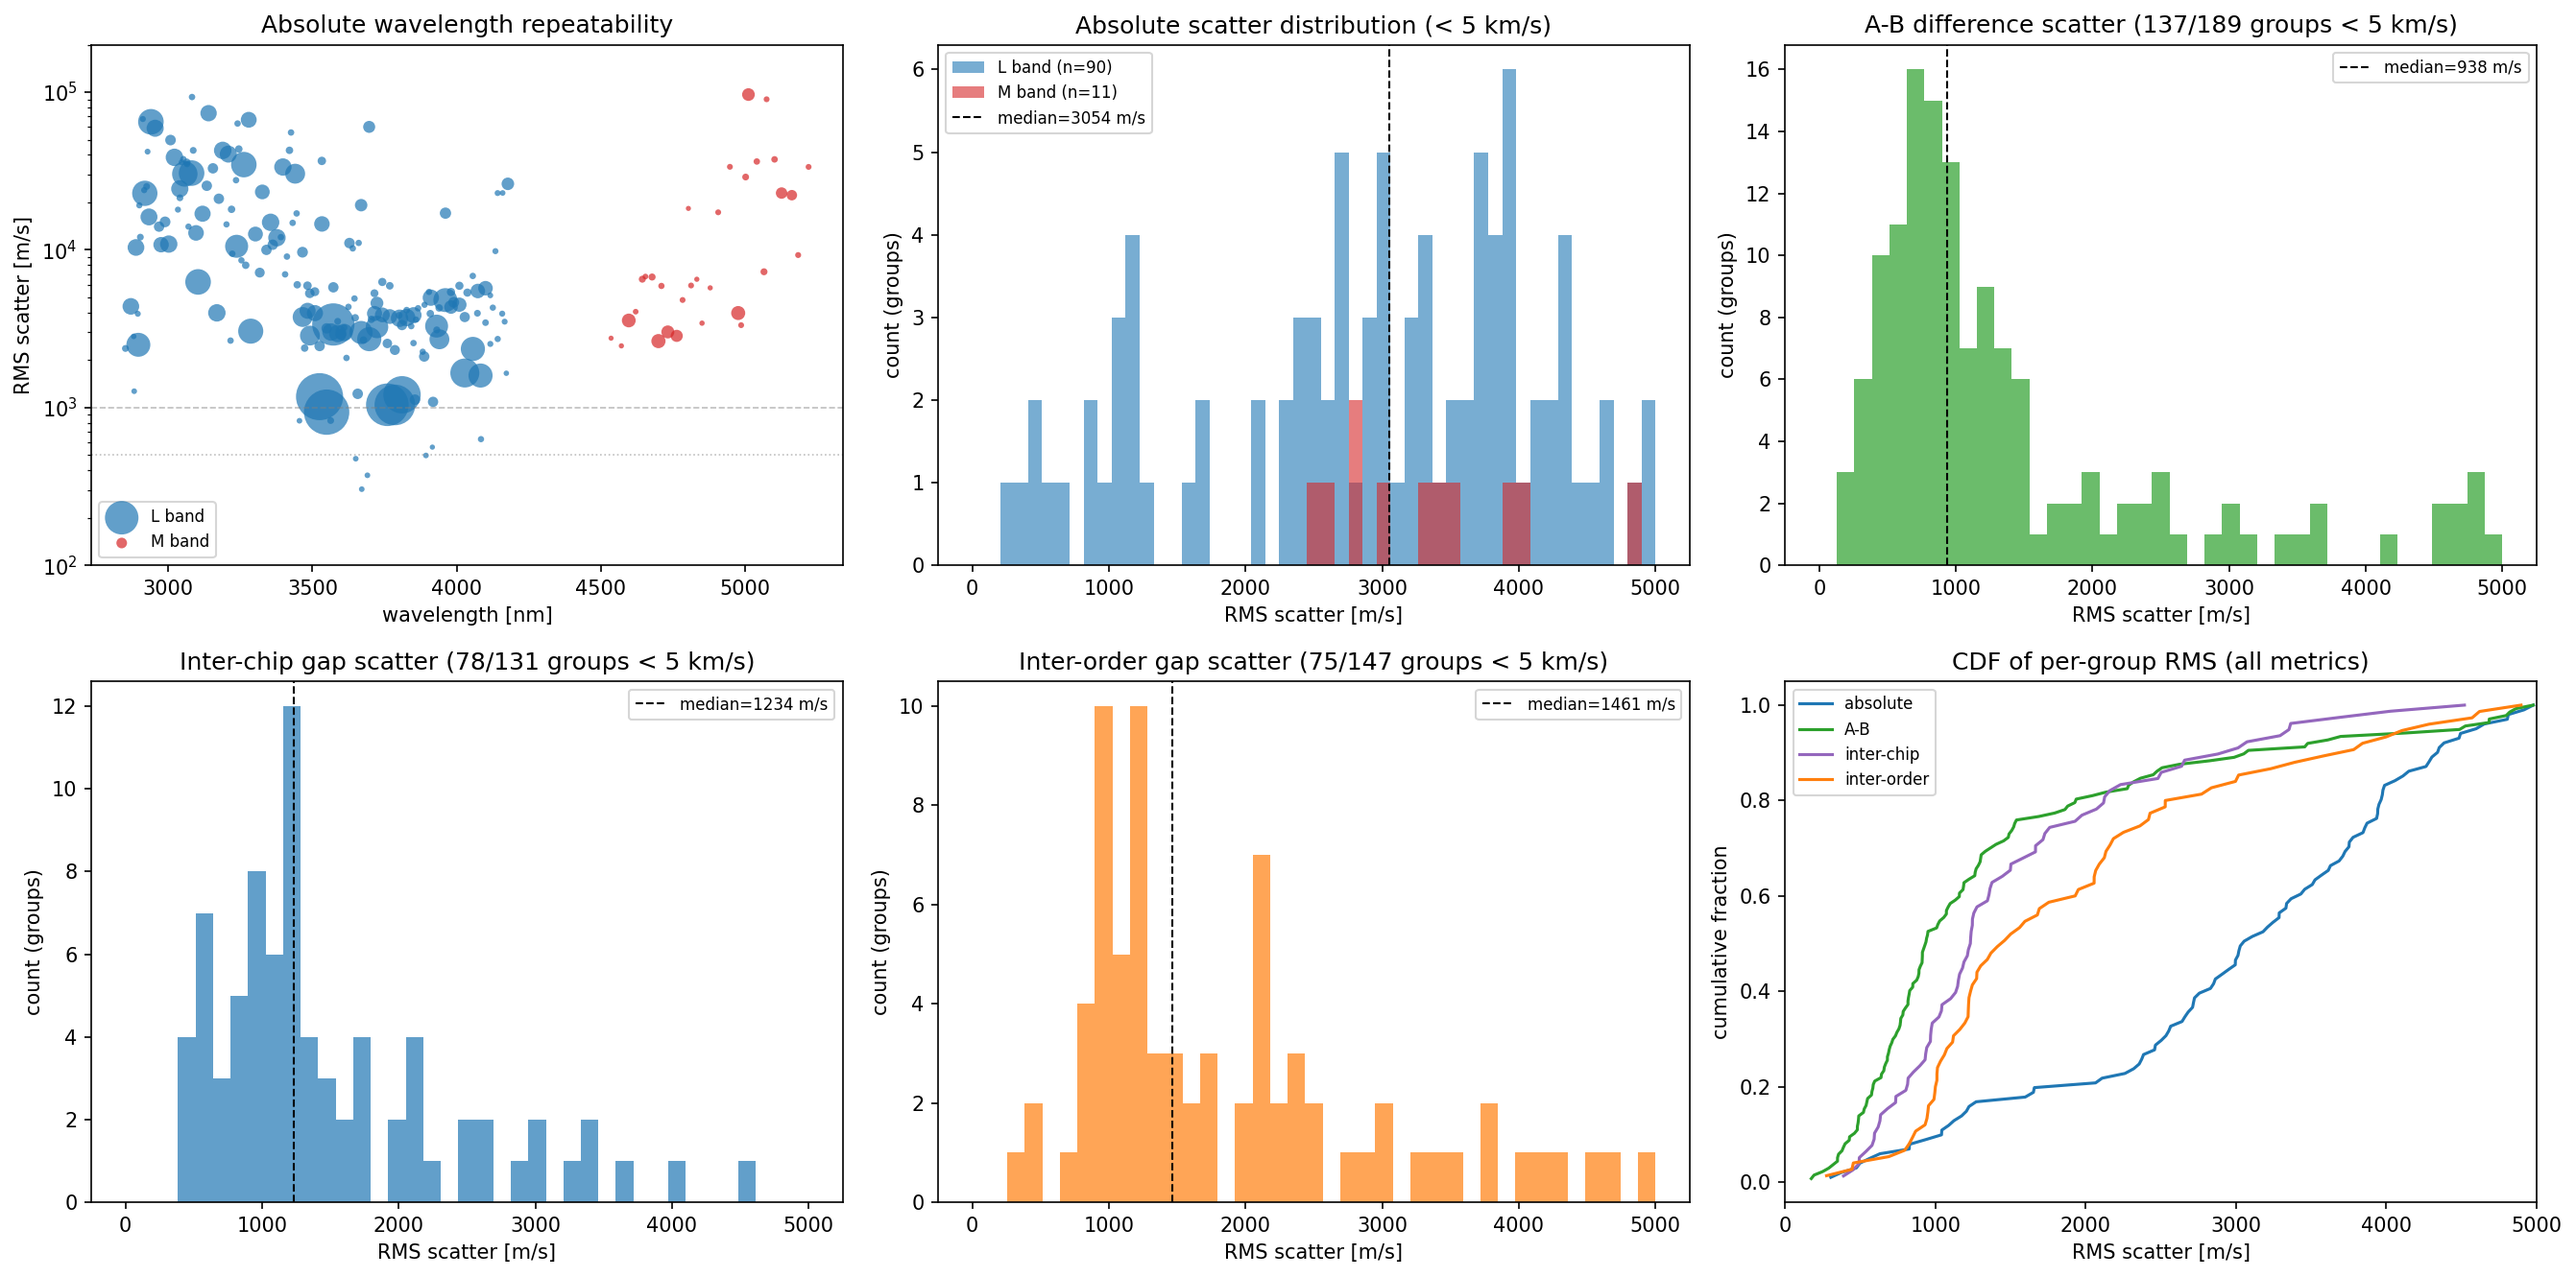
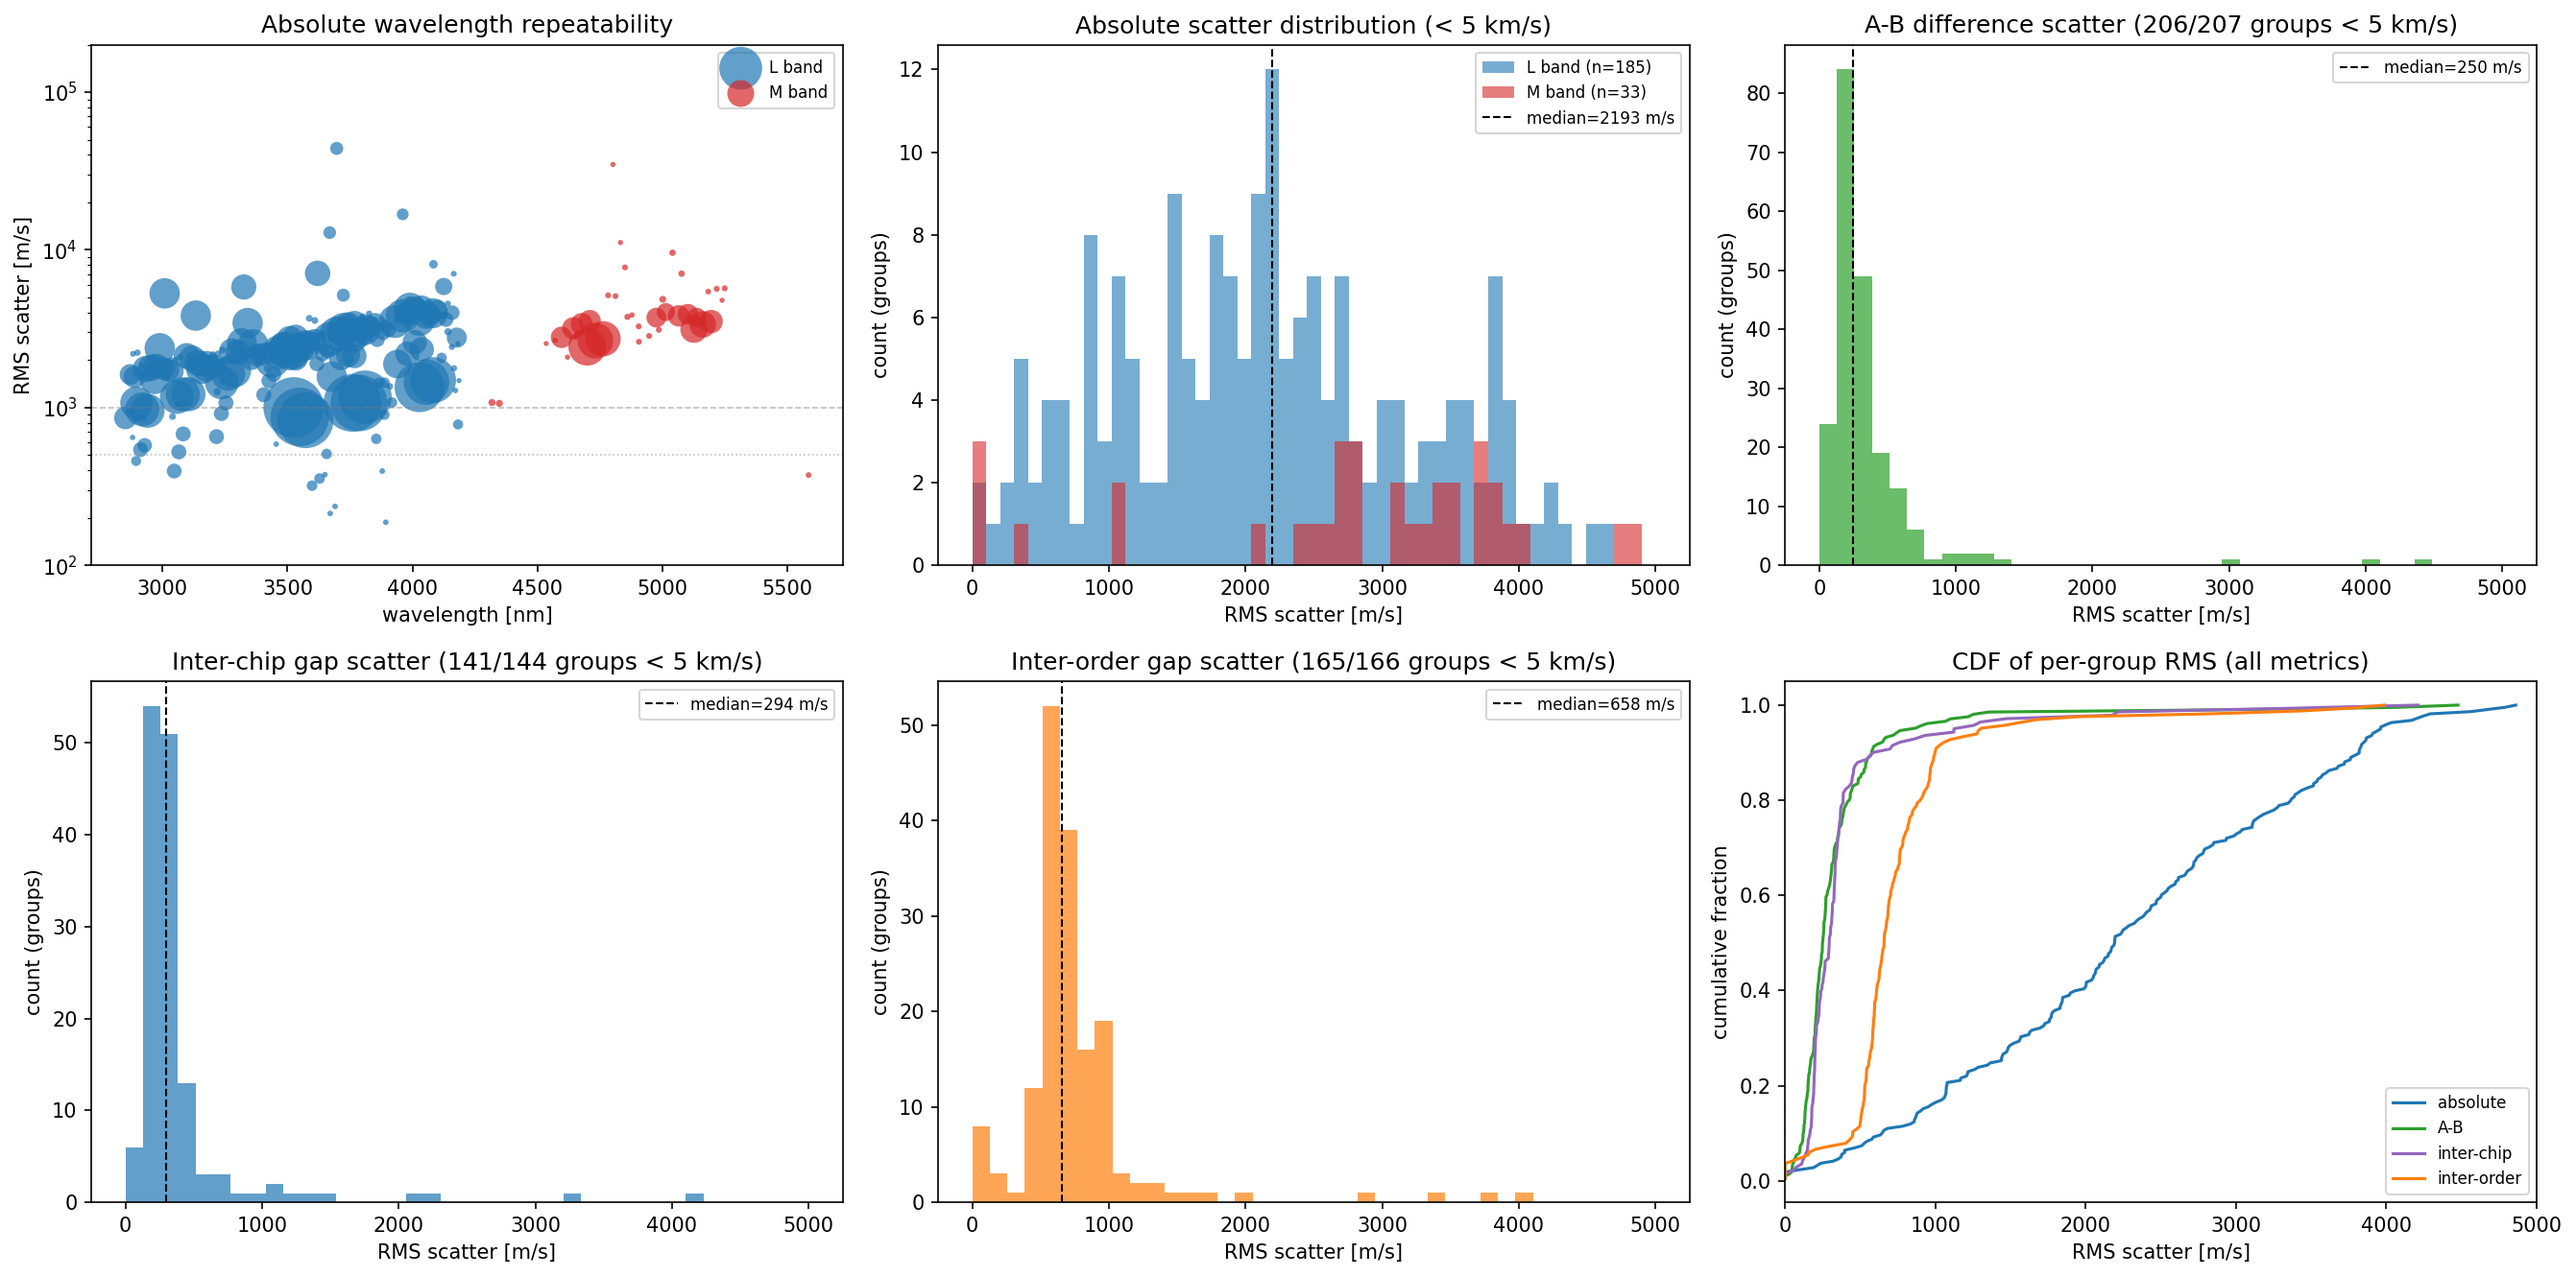
add slit tilt validation script and paper figure

diff --git a/tilt_comparison.py b/tilt_comparison.py
@@ -1,0 +1,307 @@
+#!/usr/bin/env python
+# /// script
+# requires-python = ">=3.10"
+# dependencies = ["numpy", "matplotlib", "astropy"]
+# ///
+"""Compare measured A-B wavelength shifts from science data to slit tilt
+predictions from _tw.fits SlitPolyB.
+
+Reads tellfit_{A,B}.par.dat and tellfit_{A,B}_xcen.json sidecar files from
+all reduction directories, computes median A-B wavelength difference per
+(setting, chip, order) group, and compares to the shift predicted by the
+tilt polynomial in the tracing tables.
+
+Uses the actual nod throw from each observation's FITS header (ESO SEQ
+NODTHROW) rather than a fixed value per setting.
+"""
+
+import json
+import re
+import sys
+from collections import defaultdict
+from pathlib import Path
+
+import numpy as np
+import matplotlib
+matplotlib.use('Agg')
+import matplotlib.pyplot as plt
+from astropy.io import fits
+
+
+MAX_ORDER = {
+    'L3244': 7, 'L3262': 7, 'L3302': 7, 'L3340': 7,
+    'L3377': 8, 'L3412': 8, 'L3426': 8,
+    'M4187': 7, 'M4211': 8, 'M4266': 8, 'M4318': 8,
+    'M4368': 8, 'M4416': 8, 'M4461': 8, 'M4504': 8, 'M4519': 9,
+}
+
+PIXEL_SCALE = 0.059  # arcsec/pixel
+
+REFPIX = 1024
+C_MS = 299792458.0
+
+
+def parse_pardat(path):
+    with open(path) as f:
+        header = f.readline().split()
+        rows = []
+        for line in f:
+            vals = line.split()
+            row = {}
+            for k, v in zip(header, vals):
+                try:
+                    row[k] = float(v)
+                except ValueError:
+                    row[k] = np.nan
+            rows.append(row)
+    return rows
+
+
+def vipere_order_to_chip_order(vorder, max_order):
+    order_idx, det0 = divmod(vorder - 1, 3)
+    chip = det0 + 1
+    order_drs = max_order - order_idx
+    return chip, order_drs
+
+
+def eval_wl_at_pixel(wave0, wave1, wave2, xcen, pixel):
+    dx = pixel - xcen
+    return (wave0 + wave1 * dx + wave2 * dx * dx) / 10.0  # nm
+
+
+def extract_setting(dirname):
+    m = re.search(r'_([LM]\d{4})_', dirname)
+    return m.group(1) if m else None
+
+
+def get_nod_throw_pixels(dir_path):
+    """Read nod throw from extractedA FITS header, convert to pixels."""
+    ext_a = dir_path / 'cr2res_obs_nodding_extractedA.fits'
+    if not ext_a.exists():
+        return None
+    try:
+        h = fits.getheader(ext_a, 0)
+        throw_arcsec = h.get('ESO SEQ NODTHROW')
+        if throw_arcsec is None:
+            return None
+        return throw_arcsec / PIXEL_SCALE
+    except Exception:
+        return None
+
+
+def collect_ab_diffs(reduced_dir, prms_max=10):
+    """Collect per-observation A-B diffs with actual nod throw.
+
+    Returns dict: (setting, chip, order) -> list of (diff_ms, throw_pix)
+    """
+    reduced = Path(reduced_dir)
+    ab_diffs = defaultdict(list)
+    n_files = 0
+    n_no_throw = 0
+
+    for parfile in sorted(reduced.glob('*/tellfit_A.par.dat')):
+        dirname = parfile.parent.name
+        setting = extract_setting(dirname)
+        if not setting or setting not in MAX_ORDER:
+            continue
+
+        max_order = MAX_ORDER[setting]
+        n_files += 1
+
+        throw_pix = get_nod_throw_pixels(parfile.parent)
+        if throw_pix is None:
+            n_no_throw += 1
+            continue
+
+        obs_wl = {}
+        for ab in ['A', 'B']:
+            pf = parfile.parent / f'tellfit_{ab}.par.dat'
+            xf = parfile.parent / f'tellfit_{ab}_xcen.json'
+            if not pf.exists() or not xf.exists():
+                continue
+            with open(xf) as f:
+                xmap = json.load(f)
+            pars = parse_pardat(pf)
+
+            for par in pars:
+                vorder = int(par.get('order', 0))
+                if vorder == 0:
+                    continue
+                prms = par.get('prms', -1)
+                if prms < 0 or prms > prms_max:
+                    continue
+                chip, odrs = vipere_order_to_chip_order(vorder, max_order)
+                xcen_key = f"{chip}_{odrs:02d}"
+                if xcen_key not in xmap:
+                    continue
+                xcen = xmap[xcen_key]
+                wave0 = par.get('wave0', np.nan)
+                wave1 = par.get('wave1', np.nan)
+                wave2 = par.get('wave2', np.nan)
+                if any(np.isnan(v) for v in [wave0, wave1, wave2]):
+                    continue
+                wl = eval_wl_at_pixel(wave0, wave1, wave2, xcen, REFPIX)
+                obs_wl[(chip, odrs, ab)] = wl
+
+        nod_a = {(c, o): wl for (c, o, a), wl in obs_wl.items() if a == 'A'}
+        nod_b = {(c, o): wl for (c, o, a), wl in obs_wl.items() if a == 'B'}
+        for (chip, odrs) in nod_a:
+            if (chip, odrs) in nod_b:
+                wl_a = nod_a[(chip, odrs)]
+                wl_b = nod_b[(chip, odrs)]
+                wl_mean = (wl_a + wl_b) / 2
+                diff_ms = (wl_a - wl_b) / wl_mean * C_MS
+                ab_diffs[(setting, chip, odrs)].append((diff_ms, throw_pix))
+
+    print(f"Scanned {n_files} directories ({n_no_throw} skipped, no throw header), "
+          f"{len(ab_diffs)} groups with A-B pairs")
+    return ab_diffs
+
+
+def compute_ab_medians(ab_diffs):
+    """Compute median A-B shift per group, using actual nod throw for prediction.
+
+    Returns (medians, median_throws) dicts keyed by (setting, chip, order).
+    """
+    medians = {}
+    median_throws = {}
+    for key, vals_list in ab_diffs.items():
+        diffs = np.array([v[0] for v in vals_list])
+        throws = np.array([v[1] for v in vals_list])
+        if len(diffs) < 5:
+            continue
+        med = np.median(diffs)
+        mad = np.median(np.abs(diffs - med))
+        good = np.abs(diffs - med) < 5 * max(mad, 1.0)
+        if good.sum() < 5:
+            continue
+        medians[key] = np.median(diffs[good])
+        median_throws[key] = np.median(throws[good])
+    return medians, median_throws
+
+
+def read_tw_predictions(ab_medians, median_throws):
+    """Read SlitPolyB and Wavelength from _tw.fits, compute predicted A-B shift
+    using the actual median nod throw per group."""
+    predicted = {}
+    tw_cache = {}
+
+    for (setting, chip, odrs) in ab_medians:
+        if setting not in tw_cache:
+            tw_path = Path(f'{setting}_tw.fits')
+            if not tw_path.exists():
+                tw_cache[setting] = None
+                continue
+            tw_cache[setting] = fits.open(tw_path)
+
+        hdul = tw_cache[setting]
+        if hdul is None:
+            continue
+        ext = f'CHIP{chip}.INT1'
+        if ext not in hdul:
+            continue
+
+        row = None
+        for r in hdul[ext].data:
+            if int(r['Order']) == odrs:
+                row = r
+                break
+        if row is None:
+            continue
+
+        tilt = row['SlitPolyB'][0]
+        wl_c = row['Wavelength']  # [c0, c1, c2] in nm
+        wl_at_ref = wl_c[0] + wl_c[1] * REFPIX + wl_c[2] * REFPIX**2
+        disp_at_ref = wl_c[1] + 2 * wl_c[2] * REFPIX  # nm/pixel
+
+        dy = median_throws[(setting, chip, odrs)]
+        pred_ms = tilt * dy * disp_at_ref / wl_at_ref * C_MS
+
+        predicted[(setting, chip, odrs)] = {
+            'pred_ms': pred_ms,
+            'tilt': tilt,
+            'wl_nm': wl_at_ref,
+            'disp': disp_at_ref,
+            'dy': dy,
+        }
+
+    for hdul in tw_cache.values():
+        if hdul is not None:
+            hdul.close()
+
+    return predicted
+
+
+def plot_comparison(ab_medians, tw_predictions):
+    keys = sorted(set(ab_medians) & set(tw_predictions))
+    if not keys:
+        print("No matching keys for comparison")
+        return
+
+    measured = np.array([ab_medians[k] for k in keys])
+    predicted = np.array([tw_predictions[k]['pred_ms'] for k in keys])
+    wls = np.array([tw_predictions[k]['wl_nm'] for k in keys])
+
+    resid = measured - predicted
+    rms = np.std(resid)
+
+    L = wls < 4200
+    M = ~L
+
+    fig, ax = plt.subplots(figsize=(7, 4))
+    if L.any():
+        ax.scatter(wls[L], resid[L], c='C0', s=30, alpha=0.7,
+                   label='L band', edgecolors='none')
+    if M.any():
+        ax.scatter(wls[M], resid[M], c='C3', s=30, alpha=0.7,
+                   label='M band', edgecolors='none')
+    ax.axhline(0, color='k', ls='--', lw=0.8, alpha=0.5)
+    ax.set_xlabel('wavelength [nm]')
+    ax.set_ylabel('measured - predicted A-B shift [m/s]')
+    ax.set_title(f'Slit tilt validation ({len(keys)} groups, '
+                 f'RMS={rms:.0f} m/s, median={np.median(resid):.0f} m/s)')
+    ax.legend(fontsize=8)
+
+    fig.tight_layout()
+    fig.savefig('tilt_comparison.png', dpi=150, bbox_inches='tight')
+    plt.close(fig)
+
+    print(f"\n{'='*70}")
+    print(f"  Tilt comparison: measured A-B vs _tw.fits prediction")
+    print(f"{'='*70}")
+    for k in sorted(keys, key=lambda k: tw_predictions[k]['wl_nm']):
+        setting, chip, odrs = k
+        idx = keys.index(k)
+        print(f"  {setting} chip{chip} order{odrs:02d}: "
+              f"wl={tw_predictions[k]['wl_nm']:7.1f} nm, "
+              f"dy={tw_predictions[k]['dy']:5.1f} px, "
+              f"predicted={predicted[idx]:+7.0f}, "
+              f"measured={measured[idx]:+7.0f}, "
+              f"resid={resid[idx]:+7.0f} m/s")
+    print(f"\n  {len(keys)} groups, "
+          f"residual RMS={rms:.0f} m/s, median={np.median(resid):.0f} m/s")
+    print(f"\n  Wrote tilt_comparison.png")
+
+
+def main():
+    reduced_dir = Path('reduced')
+    prms_max = 10
+    if len(sys.argv) > 1:
+        prms_max = float(sys.argv[1])
+
+    print(f"Collecting A-B differences (prms < {prms_max})...")
+    ab_diffs = collect_ab_diffs(reduced_dir, prms_max=prms_max)
+
+    print("Computing median A-B shifts...")
+    ab_medians, median_throws = compute_ab_medians(ab_diffs)
+    print(f"  {len(ab_medians)} groups with >= 5 measurements")
+
+    print("Reading _tw.fits predictions...")
+    tw_pred = read_tw_predictions(ab_medians, median_throws)
+    print(f"  {len(tw_pred)} groups matched to _tw.fits")
+
+    plot_comparison(ab_medians, tw_pred)
+
+
+if __name__ == '__main__':
+    main()

diff --git a/paper/crires_lm.tex b/paper/crires_lm.tex
@@ -293,19 +293,19 @@ wavelength difference at a given pixel should be constant (reflecting the
 slit tilt) with scatter determined only by fit noise.
 
 We evaluate the wavelength at detector centre (pixel~1024) for each
-fitted segment in all 1924 science observations with at least one order
+fitted segment in all 4067 science observations with at least one order
 passing the quality filter ($\mathrm{prms} < 10$), and compute the
 deviation of each measurement from the median across all observations of
 the same wavelength setting, chip, and order. The A--B comparison yields
-the tightest constraint, with a median per-group RMS of 938\,m\,s$^{-1}$
-across 137 well-behaved groups. Since each A--B difference combines the
+the tightest constraint, with a median per-group RMS of 250\,m\,s$^{-1}$
+across 206 well-behaved groups. Since each A--B difference combines the
 noise of two independent fits, the implied single-fit precision is
-$938 / \sqrt{2} \approx 660$\,m\,s$^{-1}$.  The inter-chip and
-inter-order gap metrics give median RMS values of 1234 and
-1461\,m\,s$^{-1}$, respectively, while the absolute wavelength
+$250 / \sqrt{2} \approx 177$\,m\,s$^{-1}$.  The inter-chip and
+inter-order gap metrics give median RMS values of 294 and
+658\,m\,s$^{-1}$, respectively, while the absolute wavelength
 repeatability (which additionally includes real observation-to-observation
 variations from atmospheric and instrumental changes) has a median RMS of
-${\sim}3$\,\kms. These results apply to orders with sufficient telluric
+${\sim}2.2$\,\kms. These results apply to orders with sufficient telluric
 line density for a well-constrained fit; orders near atmospheric
 transmission windows or the CO$_2$ fundamental band show significantly
 larger scatter.
@@ -319,7 +319,7 @@ larger scatter.
     symbol size proportional to the number of measurements.
     \emph{Top centre:} distribution of per-group RMS for groups with
     RMS\,$<$\,5\,\kms. \emph{Top right:} A--B difference scatter, the
-    tightest metric (median 938\,m\,s$^{-1}$).
+    tightest metric (median 250\,m\,s$^{-1}$).
     \emph{Bottom left and centre:} inter-chip and inter-order gap scatter.
     \emph{Bottom right:} cumulative distribution of per-group RMS for all
     four metrics, showing the hierarchy from A--B (tightest) to absolute
@@ -327,6 +327,35 @@ larger scatter.
   \label{fig:wlprecision}
 \end{figure*}
 
+As an independent validation of the slit tilt calibration, we compare the
+measured A--B wavelength shifts to the predictions from the
+\texttt{SlitPolyB} tilt coefficients stored in the tracing tables.  For
+each observation the predicted shift is $\Delta\lambda = t \cdot
+\Delta{}y \cdot (\mathrm{d}\lambda/\mathrm{d}x) / \lambda \cdot c$,
+where $t$ is the tilt (from the linear fit described in
+Sect.~\ref{sec:tilt}), $\Delta{}y$ the nod throw in pixels (read from
+the \texttt{ESO SEQ NODTHROW} header of each observation and converted
+via the 0\farcs059\,pixel$^{-1}$ plate scale), and
+$\mathrm{d}\lambda/\mathrm{d}x$ the local dispersion from the tracing
+table wavelength polynomial.  Across 201 (setting, chip, order) groups
+the residuals between the measured and predicted A--B shifts have an RMS
+of 808\,m\,s$^{-1}$ and a median offset of only 15\,m\,s$^{-1}$
+(Fig.~\ref{fig:tiltcomp}), confirming that the linear tilt model
+captures the dominant slit geometry to within the single-fit wavelength
+precision.
+
+\begin{figure}
+  \centering
+  \includegraphics[width=\columnwidth]{figs/tilt_comparison.png}
+  \caption{Residual between the measured median A--B wavelength shift and
+    the shift predicted by the slit tilt model, as a function of
+    wavelength.  Blue and red points denote L- and M-band groups,
+    respectively.  The RMS residual of 808\,m\,s$^{-1}$ is consistent
+    with the single-fit wavelength precision of ${\sim}180$\,m\,s$^{-1}$
+    (each A--B difference combines two fits) and the observation-to-observation
+    scatter in nod throw and atmospheric conditions.}
+  \label{fig:tiltcomp}
+\end{figure}
 
 %--------------------------------------------------------------------
 \section{The archive}
